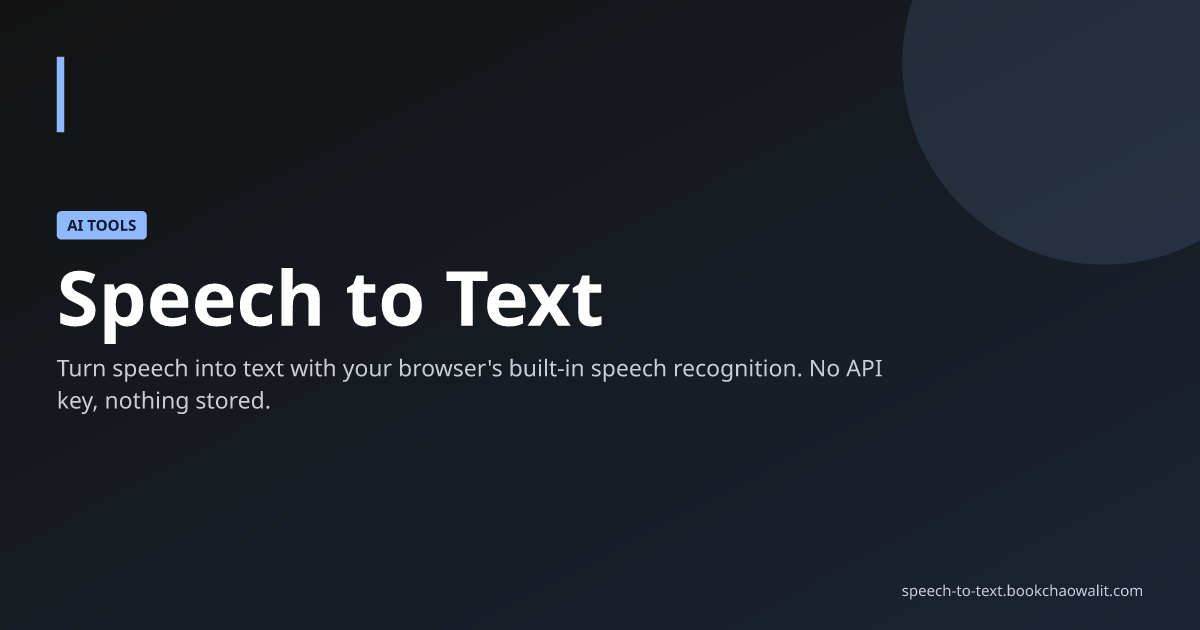
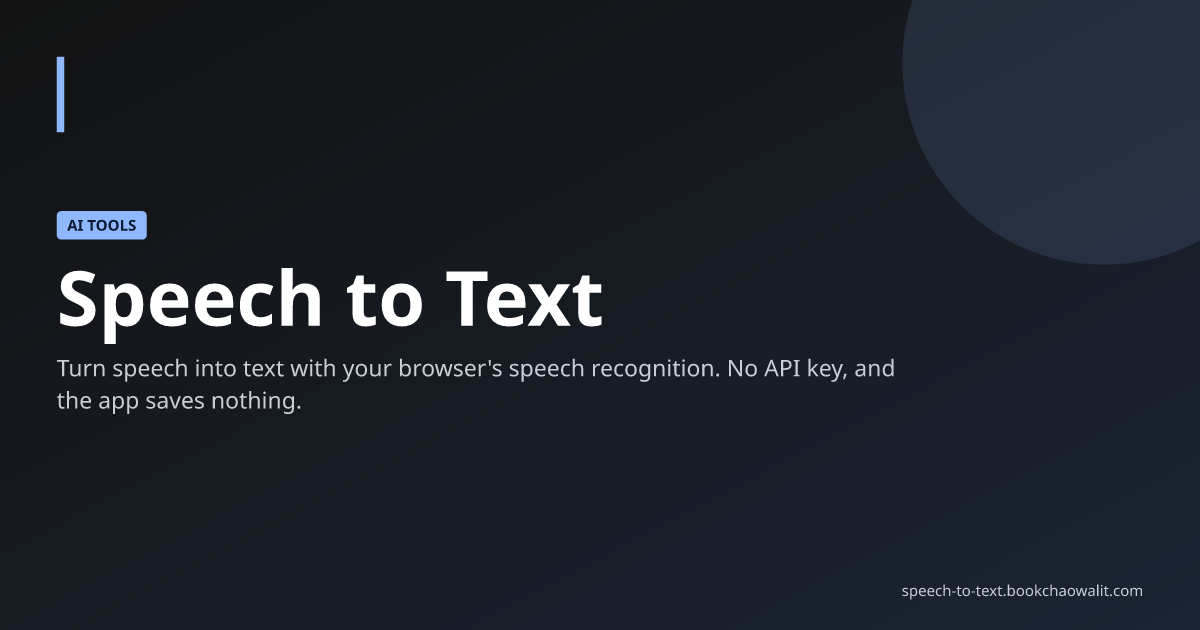
fix(copy): state data handling accurately
Error reports (scrubbed, errors only) still reach Sentry, so absolute
'nothing leaves' claims are narrowed to what the app keeps locally.
The Web Speech API may recognise audio on the browser vendor service; say so.

Changed region(s): [[0.0308, 0.6032, 0.2467, 0.6635], [0.4008, 0.573, 0.74, 0.6032]]

diff --git a/app/page.tsx b/app/page.tsx
@@ -132,7 +132,7 @@ export default function Home() {
           <p className="st-meta st-copy-status" role="status">{note}</p>
         </section>
 
-        <p className="as-note">Method: the Web Speech API (SpeechRecognition). Browser support and microphone permission apply. This app does not store or send your audio or transcript; the transcript stays only in this tab until you clear it or close the tab.</p>
+        <p className="as-note">Method: the Web Speech API (SpeechRecognition). Browser support and microphone permission apply. This app does not store your audio or transcript or send them to a server of its own; the transcript stays only in this tab until you clear it or close the tab. Your browser may process the audio on its own speech service (Chrome and Edge recognise speech online).</p>
       </main>
       <AppFoot source={SOURCE} />
     </div>

diff --git a/tests/home-interaction.test.tsx b/tests/home-interaction.test.tsx
@@ -134,7 +134,7 @@ describe("recorder", () => {
   it("does not promise the transcript is gone when you leave the page", () => {
     mount();
     expect(host.textContent).not.toContain("gone when you leave the page");
-    expect($(".as-note")!.textContent).toContain("does not store or send your audio or transcript");
+    expect($(".as-note")!.textContent).toContain("does not store your audio or transcript");
     expect($(".as-note")!.textContent).not.toContain("sends nothing");
   });
 

diff --git a/app/layout.tsx b/app/layout.tsx
@@ -7,7 +7,7 @@ import "./globals.css";
 const geistSans = Geist({ variable: "--font-geist-sans", subsets: ["latin"] });
 
 const title = "Speech to Text | Bookchaowalit";
-const description = "Turn speech into text with your browser's built-in speech recognition. No API key, nothing stored.";
+const description = "Turn speech into text with your browser's built-in speech recognition. No API key, and the app saves nothing.";
 
 export const metadata: Metadata = {
   title,
